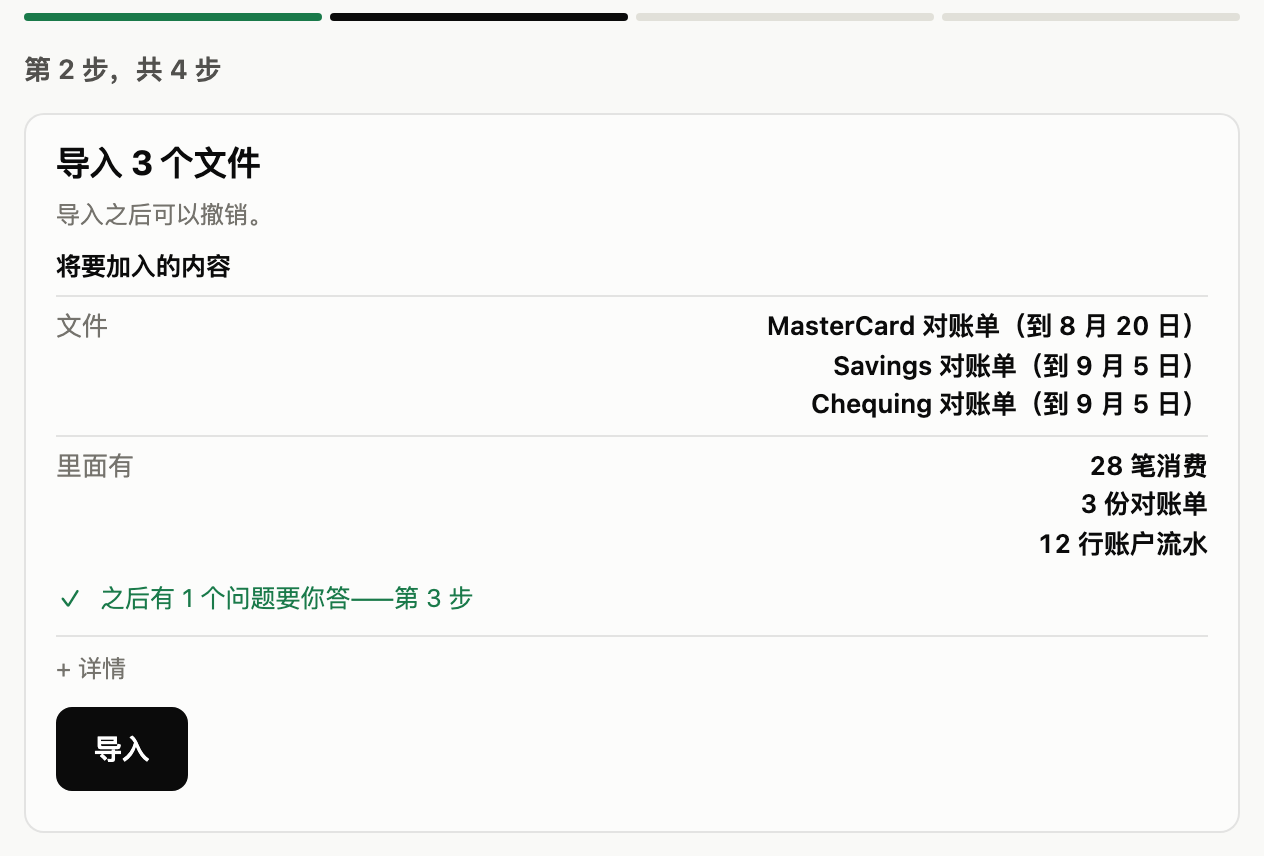
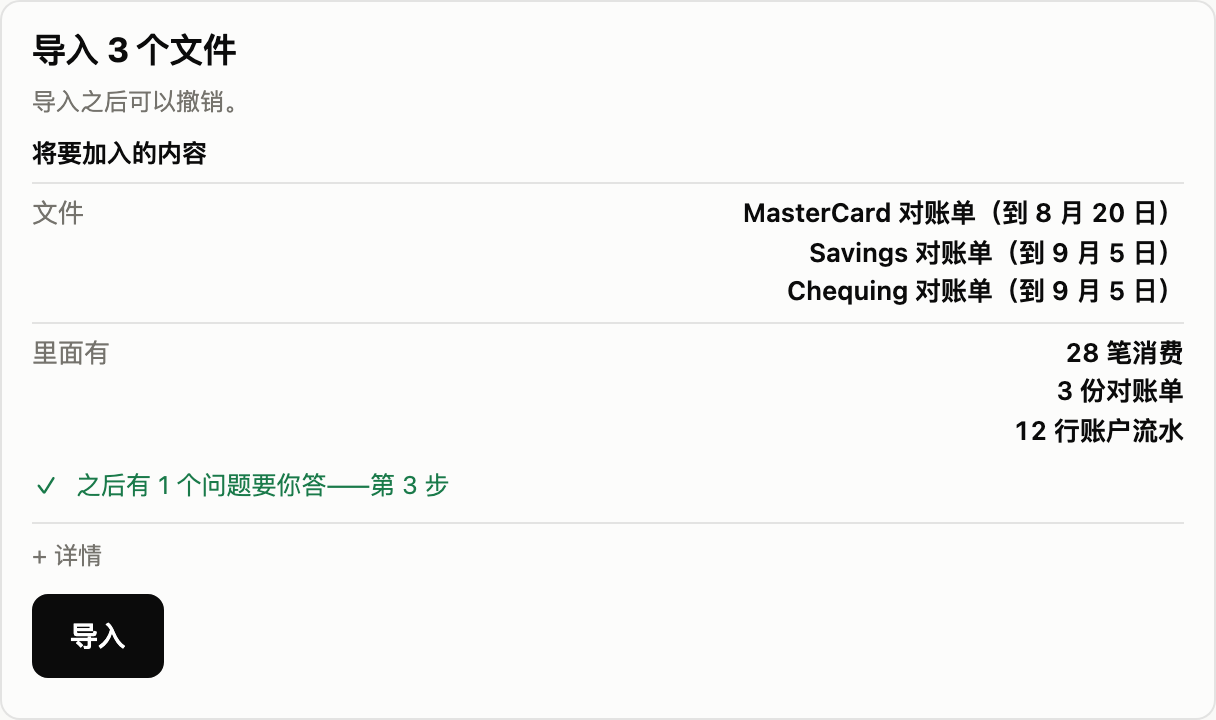
Front page: once a month, three things to do, then the result
"How it works" becomes three steps a month (get your files, import, categorize), each a row with
what you do and what the app does beside that step's picture, then the Done view. The panel's
pictures show only its card, retaken from the 1.0.8 app.

Site and screenshots only; the app is unchanged.

diff --git a/docs/site/make.py b/docs/site/make.py
@@ -58,17 +58,20 @@ EN = dict(
             ("Every number adds up.", "A statement only gets in if it matches the totals printed on it."),
             ("A FIRE plan, not just a budget.", "Years to financial independence, how long your money "
              "will last, your TFSA, RRSP and FHSA, and accounts abroad — all in one net worth.")],
-    how_lab="How it works", how_h="Four steps, once a month",
-    steps=[("Get your files", "Download last month's statements from your bank. The app tells you "
-                              "which ones are missing and where to find each.",
-            "Step 1 in the app: each account and what is still needed, and the files in the folder"),
-           ("Import", "Drag them in. Each one is read on your Mac and only gets in if it adds up.",
-            "Step 2: what the import will add, before anything is written"),
-           ("Categorize", "You only answer what a program can't decide — a new shop, a transfer "
-                          "with no name. One tap each, and it remembers next time.",
-            "Step 3: one question at a time, here a transfer with no sender"),
-           ("Done", "Your page updates with the new month.",
-            "Step 4: what changed, with the net worth before and after")],
+    how_lab="How it works", how_h="Once a month, three things to do", you="You", app="The app",
+    steps=[("Get your files", "Download last month's statements from your bank, plus your broker's export if you have one.",
+            "Tells you which ones are still missing and where to find each.",
+            "In the app: each account and what is still needed, and the files in the folder"),
+           ("Import", "Drag them in and press Import.",
+            "Reads each one on your Mac — nothing is uploaded — and only lets it in if it matches the "
+            "statement's own totals. You can undo it.",
+            "In the app: what the import will add, before anything is written"),
+           ("Categorize", "Answer what only you know: a new shop, an e-Transfer with no name. Some months "
+                          "there's nothing to ask.",
+            "Remembers every shop and sender you name.",
+            "In the app: one question at a time, here an e-Transfer with no sender")],
+    then_h="Then", then_p="Your page updates with the new month: what you spent, and where your net worth moved.",
+    then_alt="In the app: what changed, with the net worth before and after",
     panel="panel",
     q_lab="What it tells you",
     qs=[("Where do I stand?", "Your net worth across every account and currency — each part labelled "
@@ -132,15 +135,18 @@ ZH = dict(
     points=[("不用连银行。", "对账单你自己下载，app 在你的电脑上读取，不上传任何东西，也不用注册。"),
             ("每个数都对得上。", "每份对账单都要和它自己印的合计一致，才会收进来。"),
             ("不只是记账，还有 FIRE 计划。", "还要几年财务自由、退休后钱能撑多久；TFSA、RRSP、FHSA 和海外账户，都算进同一个净值。")],
-    how_lab="怎么用", how_h="每个月，四步搞定",
-    steps=[("下载文件", "从网银下载上个月的对账单。app 会提醒你还差哪几份、每份去哪下载。",
-            "app 里的第 1 步：每个账户还差什么，文件夹里已经有哪些文件"),
-           ("导入", "把文件拖进来。每份都在你的 Mac 上读取，金额核对无误才收进来。",
-            "第 2 步：写进去之前，先告诉你会加进来什么"),
-           ("归类", "只有程序判断不了的才问你，比如第一次出现的商户、没写付款人的转账。点一下就好，下次自动记住。",
-            "第 3 步：一次只问一件事，这里是一笔没写付款人的转账"),
-           ("完成", "你的总览页加上新的一个月，自动更新。",
-            "第 4 步：这次改了什么，净值前后各是多少")],
+    how_lab="怎么用", how_h="每个月，你只做三件事", you="你", app="app",
+    steps=[("下载文件", "从网银下载上个月的对账单；有券商账户的话，再导出一份券商记录。",
+            "提醒你还差哪几份、每份去哪下载。",
+            "app 里：每个账户还差什么，文件夹里已经有哪些文件"),
+           ("导入", "把文件拖进来，点「导入」。",
+            "在你的 Mac 上逐份读取，不上传；和对账单自己印的合计一致才收进来。导入后也可以撤销。",
+            "app 里：写进去之前，先告诉你会加进来什么"),
+           ("归类", "回答只有你知道的事，比如第一次出现的商户、没写付款人的 e-Transfer。有的月份一个问题都没有。",
+            "你说过的商户和付款人，它都会记住。",
+            "app 里：一次只问一件事，这里是一笔没写付款人的 e-Transfer")],
+    then_h="然后", then_p="你的总览页加上新的一个月：花了多少，净值怎么变。",
+    then_alt="app 里：这次改了什么，净值前后各是多少",
     panel="panel-zh",
     q_lab="它能回答",
     qs=[("我现在有多少家底？", "所有账户、所有币种合在一起的净值：每一行是这笔钱的用途，色条的颜色表示取用有多方便。",
@@ -224,17 +230,28 @@ h1 { font-size:clamp(30px,3.3vw,44px); line-height:1.1; letter-spacing:-.025em; 
 .points span { color:var(--ink-2); font-size:15px; }
 section { padding:72px 0 0; scroll-margin-top:60px; }
 h2 { font-size:clamp(24px,3vw,32px); letter-spacing:-.015em; line-height:1.2; margin:0 0 28px; }
-.steps { display:grid; grid-template-columns:1fr 1fr; gap:48px 40px; align-items:start;
-         margin:0; padding:0; list-style:none; counter-reset:s; }
-@media (max-width:760px) { .steps { grid-template-columns:1fr; gap:40px; } }
-.steps li { counter-increment:s; }
-.steps .st { position:relative; padding:0 0 18px 44px; min-height:92px; }
-@media (max-width:760px) { .steps .st { min-height:0; } }
-.steps .st::before { content:counter(s); position:absolute; left:0; top:0; width:28px; height:28px; border-radius:50%;
-                    background:var(--btn); color:#fff; font-weight:700; font-size:14px; display:flex;
-                    align-items:center; justify-content:center; }
-.steps b { display:block; font-size:17px; margin:2px 0 4px; }
-.steps span { color:var(--ink-2); font-size:15px; }
+/* Once a month, three things to do (2026-11-17, user 001): what you do is one short line, what the
+   app does the longer one under it; then the result, which asks nothing of you. One step a row, the
+   words beside the whole picture: in two columns the panel's tall and short views left holes. */
+.walk { display:grid; grid-template-columns:1fr; gap:20px; margin:0; padding:0; list-style:none; }
+.wk { background:var(--surface); border:1px solid var(--border); border-radius:14px; padding:28px;
+      display:grid; grid-template-columns:5fr 6fr; gap:20px 40px; align-items:center; }
+@media (max-width:980px) { .wk { grid-template-columns:1fr; padding:22px; } }
+.wk .txt { display:flex; flex-direction:column; gap:16px; }
+.wk h3 { display:flex; align-items:center; gap:12px; font-size:20px; margin:0; letter-spacing:-.01em; }
+.wk h3 i { flex:none; width:28px; height:28px; border-radius:50%; background:var(--btn); color:#fff; font-style:normal;
+           font-size:14px; font-weight:700; display:inline-flex; align-items:center; justify-content:center; }
+.who { display:grid; grid-template-columns:auto 1fr; gap:8px 14px; margin:0; font-size:15.5px; line-height:1.5; }
+.who dt { color:var(--muted); font-size:12px; font-weight:700; letter-spacing:.06em; text-transform:uppercase;
+          padding-top:3px; white-space:nowrap; }
+.who dd { margin:0; color:var(--ink-2); }
+.who dd.you { color:var(--ink); }
+.wk .pic { margin:0; }
+.wk .pic img { display:block; width:100%; height:auto; border-radius:10px; border:1px solid var(--border);
+               box-shadow:0 1px 2px rgba(46,44,41,.05), 0 10px 28px rgba(46,44,41,.08); }
+.wk.then { background:#eaf1ea; border-color:rgba(30,122,70,.22); }
+.wk.then h3 i { background:var(--ok); }
+.wk.then p { margin:0; font-size:15.5px; color:var(--ink-2); }
 .qs { display:grid; gap:56px; }
 .q { display:grid; grid-template-columns:4fr 7fr; gap:40px; align-items:center; }
 .q:nth-child(even) { grid-template-columns:7fr 4fr; }
@@ -330,9 +347,11 @@ def page(t, base):
   <section id="how">
     <p class="lab">{e(t['how_lab'])}</p>
     <h2>{e(t['how_h'])}</h2>
-    <ol class="steps">{''.join(f'<li><div class="st"><b>{e(a)}</b><span>{e(b)}</span></div>'
-                               f'<figure class="shot">{img(panel(i), alt)}</figure></li>'
-                               for i, (a, b, alt) in enumerate(t['steps'], 1))}</ol>
+    <ol class="walk">{''.join(f'<li class="wk"><div class="txt"><h3><i>{i}</i>{e(a)}</h3><dl class="who"><dt>{e(t["you"])}</dt>'
+                              f'<dd class="you">{e(y)}</dd><dt>{e(t["app"])}</dt><dd>{e(d)}</dd></dl></div>'
+                              f'<figure class="pic">{img(panel(i), alt)}</figure></li>'
+                              for i, (a, y, d, alt) in enumerate(t['steps'], 1))}<li class="wk then"><div class="txt"><h3><i>✓</i>{e(t['then_h'])}</h3>
+      <p>{e(t['then_p'])}</p></div><figure class="pic">{img(panel(4), t['then_alt'])}</figure></li></ol>
   </section>
 
   <section>

diff --git a/tools/demo.py b/tools/demo.py
@@ -605,12 +605,11 @@ def screenshots(out):
 # and dropped into inbox/ as the bank would send it, the way the selftest does — so each view
 # shows what it really shows: the files to get, what the import will add, what it asks, what
 # changed. The copy's "today" is the demo's own date, so "still needed" does not grow with the
-# calendar. panel.png and panel-zh.png (README) are the third view.
+# calendar. Only the view's card is taken, not the "Step N of 4" bar above it: the front page
+# says three things to do and a result (2026-11-17). panel.png and panel-zh.png (README) are the third view.
 PANEL_LANGS = (("en", "panel"), ("zh", "panel-zh"))
-PANEL_BOX = """() => { const top = document.getElementById('bars').getBoundingClientRect();
-  const card = [...document.querySelectorAll('.card.view')].find(c => c.offsetParent !== null).getBoundingClientRect();
-  const w = document.querySelector('.wrap').getBoundingClientRect();
-  return [w.x - 12, top.y - 6, w.width + 24, card.bottom - top.y + 18]; }"""
+PANEL_BOX = """() => { const c = [...document.querySelectorAll('.card.view')].find(c => c.offsetParent !== null).getBoundingClientRect();
+  return [c.x, c.y, c.width, c.height]; }"""
 
 
 def panel_shots(out, dst, browser):
